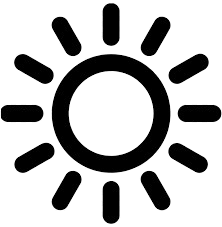
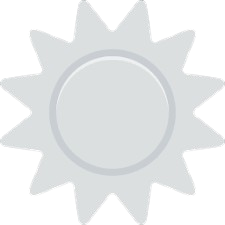
dark-Mode js project

diff --git a/JS_Project/Dark_Mode/style.css b/JS_Project/Dark_Mode/style.css
@@ -3,15 +3,31 @@
     padding: 0;
 
 }
+:root{
+    /* --primary-color: #edf2fc;
+    --secondary-color:#212121; */
+
+    --primary-color:#edf2fc;
+    --secondary-color: #000;
+}
+
+.dark-theme{
+     --primary-color:#000106;
+    --secondary-color: #fff;
+}
+
 #icon{
     width: 30px;
     cursor: pointer;
-
+}
+nav ul{
+    flex: 1;
+    text-align: right;
 }
 .hero{
     height: 100vh;
     width: 100%;
-    background: #edf2fc;
+    background: var(--primary-color);
     font-family: sans-serif;
     position: relative;
 }
@@ -34,14 +50,72 @@ nav ul li{
 }
 nav ul li a{
     text-decoration: none;
-    color: #606163;
+    color: var(--secondary-color);
 }
 nav ul li a:hover{
     color: #ff4321;
 }
+.info{
+    margin-left: 8%;
+    margin-top: 15%;
+}
+.info h1{
+    font-size: 70px;
+    color: var(--secondary-color); 
+    margin-bottom: 20px;
+}
+span{
+    color: #ff4321;
+}
+.info p{
+    color: var(--secondary-color);
+    line-height: 22px;
+}
+.info a{
+  
+    background: #ff4321;
+    color: #fff;
+    padding: 10px 18px;
+    text-decoration: none;
+    display: inline-block;
+    margin: 30px 0;
+    border-radius: 5px;
 
+}
+.img-box{
+    width: 45%;
+    height: 80%;
+    position: absolute;
+    bottom: 0;
+    right: 100px;
+}
+.img-box img{
+    height: 100%;
+    position:absolute;
+    left: 50%;
+    bottom: 0;
+    transform: translateX(-50%);
+    transition: bottom 1s, left 1s;
+}
+.img-box:hover .back-img{
+    bottom: 40px;
 
-
-
-
+}
+.img-box:hover .main-img{
+    left: 54%;
+}
+.social-links{
+    margin-left: 8%;
+    margin-top: 40px;
+    position: relative;
+    z-index: 2;
+}
+.social-links a{
+    font-size: 30px;
+    color: var(--secondary-color);
+    margin-right: 20px;
+}
+.social-links a:hover{
+    color: #ff4321;
+}
 

diff --git a/JS_Project/Dark_Mode/index.html b/JS_Project/Dark_Mode/index.html
@@ -1,11 +1,14 @@
 <!DOCTYPE html>
 <html lang="en">
+
 <head>
     <meta charset="UTF-8">
     <meta name="viewport" content="width=device-width, initial-scale=1.0">
     <title>Dark-mode</title>
     <link rel="stylesheet" href="style.css">
+    <link rel="stylesheet" href="https://cdnjs.cloudflare.com/ajax/libs/font-awesome/7.0.1/css/all.min.css">
 </head>
+
 <body>
     <div class="hero">
         <nav>
@@ -17,13 +20,28 @@
                 <li><a href="">SERVICES</a></li>
                 <li><a href="">HIRE ME</a></li>
             </ul>
-            <img src="images/dark" id="icon">
+            <img src="images/dark.png" id="icon">
         </nav>
         <div class="info">
             <h1>I'm <span>Kate</span> Amelia </h1>
-            <p>This is my official portfolio website to showcase my all works related to web <br> development and UI design.</p>
+            <p>This is my official portfolio website to showcase my all works related to web <br> development and UI
+                design.</p>
             <a href="">Download CV</a>
         </div>
+        <div class="img-box">
+            <!-- <img src="images/background.jpg" class="back-img"> -->
+            <img src="images/girl-background.png" class="back-img">
+            <img src="images/model.png" class="main-img">
+
+        </div>
+        <div class="social-links">
+            <a href=""><i class="fa-brands fa-linkedin-in"></i></a>
+            <a href=""><i class="fa-brands fa-behance"></i></a>
+            <a href=""><i class="fa-brands fa-dribbble"></i></a>
+
+        </div>
     </div>
+    <script src="script.js"></script>
 </body>
+
 </html>

diff --git a/JS_Project/Dark_Mode/script.js b/JS_Project/Dark_Mode/script.js
@@ -1,0 +1,13 @@
+var icon = document.getElementById("icon");
+
+icon.onclick = function(){
+
+    document.body.classList.toggle("dark-theme");
+
+    if(document.body.classList.contains("dark-theme")){
+        icon.src = "images/light.png";
+    }else{
+        icon.src = "images/dark.png";
+    }
+
+}
